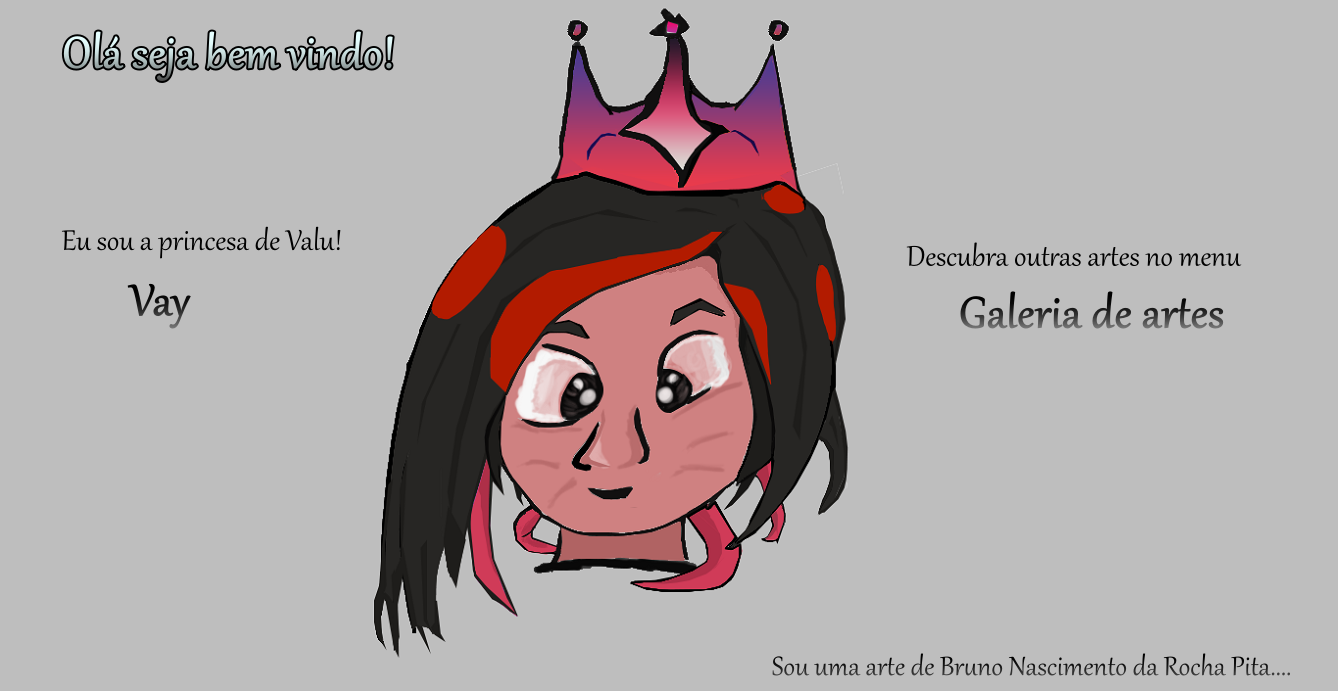
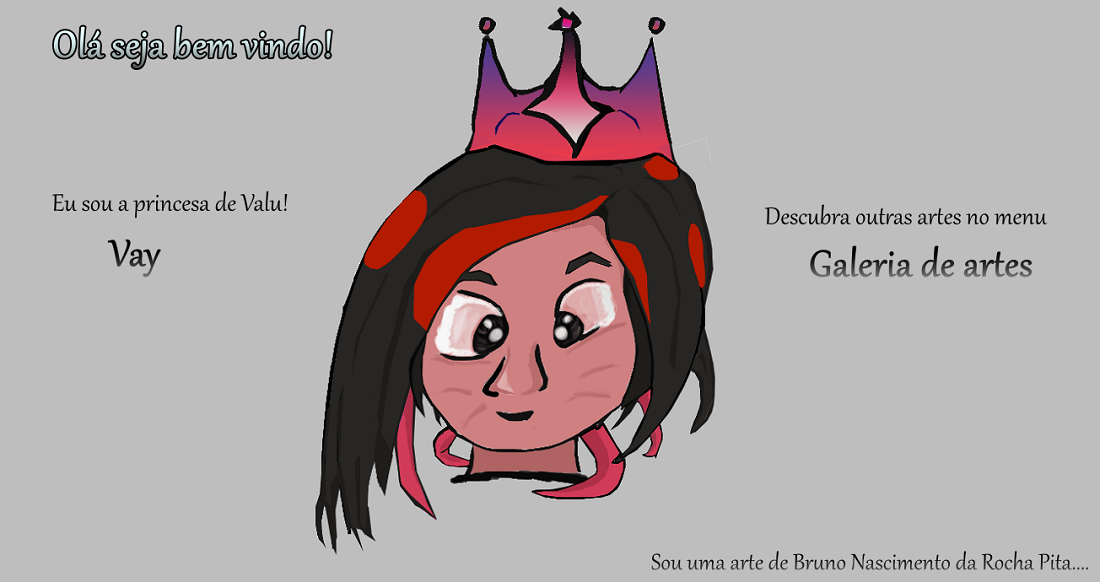
adjusts

diff --git a/css/style.css b/css/style.css
@@ -1,4 +1,5 @@
-
+*{margin:0;
+padding:0;}
 .nav li {
 
     list-style:none;
@@ -28,3 +29,9 @@
 
 }
 .nav li a:hover{color:white;}
+
+.princess{
+	position:relative;
+	top:40px;
+	left:-20px;
+}
